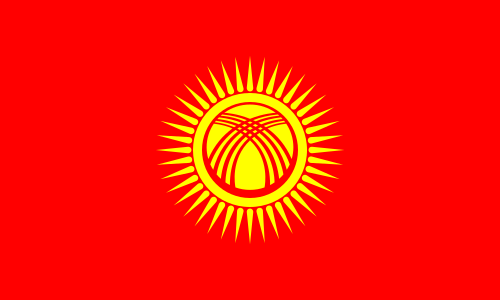
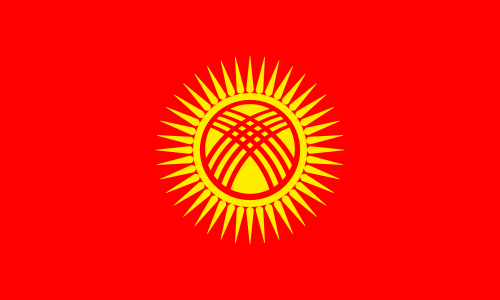
current up to luxembourg

Changed region(s): [[0.3, 0.18, 0.69, 0.81]]

diff --git a/currentInfo.js b/currentInfo.js
@@ -1186,7 +1186,7 @@ const currentInfo = [
     {
         country: {"name":"Kyrgyzstan","url":"https://en.wikipedia.org/wiki/Kyrgyzstan"}, 
         leader: {"title":"President","pos":"president","name":"Sadyr Japarov","url":"https://en.wikipedia.org/wiki/Sadyr_Japarov","imgUrl":"https://upload.wikimedia.org/wikipedia/commons/thumb/e/e4/Official_Photo_of_the_President_of_the_Kyrgyz_Republic_H.E._Mr._Sadyr_Zhaparov.jpg/500px-Official_Photo_of_the_President_of_the_Kyrgyz_Republic_H.E._Mr._Sadyr_Zhaparov.jpg"}, 
-        flag: {"url":"https://upload.wikimedia.org/wikipedia/commons/thumb/3/31/Flag_of_Kyrgyzstan_%282023%29.svg/500px-Flag_of_Kyrgyzstan_%282023%29.svg.png"}, 
+        flag: {"url":"https://upload.wikimedia.org/wikipedia/commons/thumb/c/c7/Flag_of_Kyrgyzstan.svg/500px-Flag_of_Kyrgyzstan.svg.png"}, 
         symbol: {"url":"https://upload.wikimedia.org/wikipedia/commons/thumb/f/f1/Emblem_of_Kyrgyzstan.svg/500px-Emblem_of_Kyrgyzstan.svg.png"}, 
         map: {"url":"https://upload.wikimedia.org/wikipedia/commons/thumb/7/7c/Kyrgyzstan_%28orthographic_projection%29.svg/500px-Kyrgyzstan_%28orthographic_projection%29.svg.png"}, 
         capital: [{"name":"Bishkek","type":"capital"}], 
@@ -1224,7 +1224,7 @@ const currentInfo = [
     }, 
     {
         country: {"name":"Lebanon","url":"https://en.wikipedia.org/wiki/Lebanon"}, 
-        leader: {"title":"Prime Minister","pos":"prime minister","name":"Najib Mikati","url":"https://en.wikipedia.org/wiki/Najib_Mikati","imgUrl":"https://upload.wikimedia.org/wikipedia/commons/thumb/6/6e/Najib_Mikati_portrait.jpg/500px-Najib_Mikati_portrait.jpg"}, 
+        leader: {"title":"Prime Minister","pos":"prime minister","name":"Najib Mikati","url":"https://en.wikipedia.org/wiki/Najib_Mikati","imgUrl":"https://upload.wikimedia.org/wikipedia/commons/thumb/0/0a/Najib_Mikati%2C_Lebanon_Jan_2024_%28cropped%29.jpg/500px-Najib_Mikati%2C_Lebanon_Jan_2024_%28cropped%29.jpg"}, 
         flag: {"url":"https://upload.wikimedia.org/wikipedia/commons/thumb/5/59/Flag_of_Lebanon.svg/500px-Flag_of_Lebanon.svg.png"}, 
         symbol: {"url":"https://upload.wikimedia.org/wikipedia/commons/thumb/9/98/Coat_of_arms_of_Lebanon.svg/500px-Coat_of_arms_of_Lebanon.svg.png"}, 
         map: {"url":"https://upload.wikimedia.org/wikipedia/commons/thumb/9/96/Lebanon_%28orthographic_projection%29.svg/500px-Lebanon_%28orthographic_projection%29.svg.png"}, 
@@ -1250,7 +1250,7 @@ const currentInfo = [
     }, 
     {
         country: {"name":"Liberia","url":"https://en.wikipedia.org/wiki/Liberia"}, 
-        leader: {"title":"President","pos":"president","name":"George Weah","url":"https://en.wikipedia.org/wiki/George_Weah","imgUrl":"https://upload.wikimedia.org/wikipedia/commons/thumb/3/39/George_Weah_in_2019_%28cropped%29.jpg/500px-George_Weah_in_2019_%28cropped%29.jpg"}, 
+        leader: {"title":"President","pos":"president","name":"Joseph Boakai","url":"https://en.wikipedia.org/wiki/Joseph_Boakai","imgUrl":"https://upload.wikimedia.org/wikipedia/commons/thumb/4/45/Joseph_Boakai_%28cropped%29.png/500px-Joseph_Boakai_%28cropped%29.png"}, 
         flag: {"url":"https://upload.wikimedia.org/wikipedia/commons/thumb/b/b8/Flag_of_Liberia.svg/500px-Flag_of_Liberia.svg.png"}, 
         symbol: {"url":"https://upload.wikimedia.org/wikipedia/commons/thumb/6/64/Coat_of_arms_of_Liberia.svg/500px-Coat_of_arms_of_Liberia.svg.png"}, 
         map: {"url":"https://upload.wikimedia.org/wikipedia/commons/thumb/9/91/Liberia_%28orthographic_projection%29.svg/500px-Liberia_%28orthographic_projection%29.svg.png"}, 
@@ -1289,7 +1289,7 @@ const currentInfo = [
     }, 
     {
         country: {"name":"Lithuania","url":"https://en.wikipedia.org/wiki/Lithuania"}, 
-        leader: {"title":"Prime Minister","pos":"prime minister","name":"Ingrida Šimonytė","url":"https://en.wikipedia.org/wiki/Ingrida_%C5%A0imonyt%C4%97","imgUrl":"https://upload.wikimedia.org/wikipedia/commons/thumb/a/a5/Fumio_Kishida_and_Ingrida_%C5%A0imonyt%C4%97_at_the_sidelines_of_the_2023_NATO_Summit_%28cropped%29.jpg/500px-Fumio_Kishida_and_Ingrida_%C5%A0imonyt%C4%97_at_the_sidelines_of_the_2023_NATO_Summit_%28cropped%29.jpg"}, 
+        leader: {"title":"Prime Minister","pos":"prime minister","name":"Ingrida Šimonytė","url":"https://en.wikipedia.org/wiki/Ingrida_%C5%A0imonyt%C4%97","imgUrl":"https://upload.wikimedia.org/wikipedia/commons/thumb/f/fb/Ingrida_Simonyte_2019_crop_2.jpg/500px-Ingrida_Simonyte_2019_crop_2.jpg"}, 
         flag: {"url":"https://upload.wikimedia.org/wikipedia/commons/thumb/1/11/Flag_of_Lithuania.svg/500px-Flag_of_Lithuania.svg.png"}, 
         symbol: {"url":"https://upload.wikimedia.org/wikipedia/commons/thumb/d/dd/Coat_of_arms_of_Lithuania.svg/500px-Coat_of_arms_of_Lithuania.svg.png"}, 
         map: {"url":"https://upload.wikimedia.org/wikipedia/commons/thumb/e/ec/EU-Lithuania.svg/500px-EU-Lithuania.svg.png"}, 
@@ -1302,9 +1302,9 @@ const currentInfo = [
     }, 
     {
         country: {"name":"Luxembourg","url":"https://en.wikipedia.org/wiki/Luxembourg"}, 
-        leader: {"title":"Prime Minister","pos":"prime minister","name":"Luc Frieden","url":"https://en.wikipedia.org/wiki/Luc_Frieden","imgUrl":"https://upload.wikimedia.org/wikipedia/commons/thumb/2/2a/Luc_Frieden_EUCO_12_2023_%28cropped%29.jpg/500px-Luc_Frieden_EUCO_12_2023_%28cropped%29.jpg"}, 
+        leader: {"title":"Prime Minister","pos":"prime minister","name":"Luc Frieden","url":"https://en.wikipedia.org/wiki/Luc_Frieden","imgUrl":"https://upload.wikimedia.org/wikipedia/commons/thumb/c/c1/Frieden_EUCO_0424_%28cropped%29.jpg/500px-Frieden_EUCO_0424_%28cropped%29.jpg"}, 
         flag: {"url":"https://upload.wikimedia.org/wikipedia/commons/thumb/d/da/Flag_of_Luxembourg.svg/500px-Flag_of_Luxembourg.svg.png"}, 
-        symbol: {"url":"https://upload.wikimedia.org/wikipedia/commons/thumb/5/54/Greater-Coat-of-Arms-of-Luxembourg.svg/500px-Greater-Coat-of-Arms-of-Luxembourg.svg.png"}, 
+        symbol: {"url":"https://upload.wikimedia.org/wikipedia/commons/thumb/6/6b/Greater_coat_of_arms_of_the_grand-duchy_of_Luxembourg.svg/500px-Greater_coat_of_arms_of_the_grand-duchy_of_Luxembourg.svg.png"}, 
         map: {"url":"https://upload.wikimedia.org/wikipedia/commons/thumb/c/c3/EU-Luxembourg.svg/500px-EU-Luxembourg.svg.png"}, 
         capital: [{"name":"Luxembourg","type":"capital"}], 
         language: {"list":["Luxembourgish","French","German"]}, 

diff --git a/newInfo.js b/newInfo.js
@@ -1172,7 +1172,7 @@ const newInfo = [
     }, 
     {
         country: {"name":"Kuwait","url":"https://en.wikipedia.org/wiki/Kuwait"}, 
-        leader: {"title":"Emir","pos":"emir","name":"Mishal Al-Ahmad Al-Jaber Al-Sabah","url":"https://en.wikipedia.org/wiki/Mishal_Al-Ahmad_Al-Jaber_Al-Sabah","imgUrl":"500load.wikimedia.org/wikipedia/commons/7/73/Mishal_Al-Ahmad_Al-Jaber_Al-Sabah_GCC.jpg"}, 
+        leader: {"title":"Emir","pos":"emir","name":"Mishal Al-Ahmad Al-Jaber Al-Sabah","url":"https://en.wikipedia.org/wiki/Mishal_Al-Ahmad_Al-Jaber_Al-Sabah","imgUrl":"https://upload.wikimedia.org/wikipedia/commons/thumb/f/f5/Mishal_Al-Ahmad_Al-Jaber_Al-Sabah_December_2023_%28cropped%29.jpg/500px-Mishal_Al-Ahmad_Al-Jaber_Al-Sabah_December_2023_%28cropped%29.jpg"}, 
         flag: {"url":"https://upload.wikimedia.org/wikipedia/commons/thumb/a/aa/Flag_of_Kuwait.svg/500px-Flag_of_Kuwait.svg.png"}, 
         symbol: {"url":"https://upload.wikimedia.org/wikipedia/commons/thumb/1/1c/Emblem_of_Kuwait.svg/500px-Emblem_of_Kuwait.svg.png"}, 
         map: {"url":"https://upload.wikimedia.org/wikipedia/commons/thumb/4/41/KWT_orthographic.svg/500px-KWT_orthographic.svg.png"}, 
@@ -1211,7 +1211,7 @@ const newInfo = [
     }, 
     {
         country: {"name":"Latvia","url":"https://en.wikipedia.org/wiki/Latvia"}, 
-        leader: {"title":"Prime Minister","pos":"prime minister","name":"Evika Siliņa","url":"https://en.wikipedia.org/wiki/Evika_Sili%C5%86a","imgUrl":"https://upload.wikimedia.org/wikipedia/commons/thumb/7/70/Prime_Minister_Orpo_and_Prime_Minister_of_Latvia_Evika_Sili%C5%86a_met_in_Helsinki_24._November_2023_%2853353047759%29.jpg/500px-Prime_Minister_Orpo_and_Prime_Minister_of_Latvia_Evika_Sili%C5%86a_met_in_Helsinki_24._November_2023_%2853353047759%29.jpg"}, 
+        leader: {"title":"Prime Minister","pos":"prime minister","name":"Evika Siliņa","url":"https://en.wikipedia.org/wiki/Evika_Sili%C5%86a","imgUrl":"https://upload.wikimedia.org/wikipedia/commons/thumb/a/a8/Jauniev%C4%93l%C4%93t%C4%81s_Ministru_prezidentes_Evikas_Sili%C5%86as_preses_konference_%28cropped%29.jpg/500px-Jauniev%C4%93l%C4%93t%C4%81s_Ministru_prezidentes_Evikas_Sili%C5%86as_preses_konference_%28cropped%29.jpg"}, 
         flag: {"url":"https://upload.wikimedia.org/wikipedia/commons/thumb/8/84/Flag_of_Latvia.svg/500px-Flag_of_Latvia.svg.png"}, 
         symbol: {"url":"https://upload.wikimedia.org/wikipedia/commons/thumb/4/45/Coat_of_arms_of_Latvia.svg/500px-Coat_of_arms_of_Latvia.svg.png"}, 
         map: {"url":"https://upload.wikimedia.org/wikipedia/commons/thumb/3/32/EU-Latvia.svg/500px-EU-Latvia.svg.png"}, 
@@ -1250,7 +1250,7 @@ const newInfo = [
     }, 
     {
         country: {"name":"Liberia","url":"https://en.wikipedia.org/wiki/Liberia"}, 
-        leader: {"title":"President","pos":"president","name":"Joseph Boakai","url":"https://en.wikipedia.org/wiki/Joseph_Boakai","imgUrl":"https://up500px-Joseph_Boakai_%28cropped%29.png"}, 
+        leader: {"title":"President","pos":"president","name":"Joseph Boakai","url":"https://en.wikipedia.org/wiki/Joseph_Boakai","imgUrl":"https://upload.wikimedia.org/wikipedia/commons/thumb/4/45/Joseph_Boakai_%28cropped%29.png/500px-Joseph_Boakai_%28cropped%29.png"}, 
         flag: {"url":"https://upload.wikimedia.org/wikipedia/commons/thumb/b/b8/Flag_of_Liberia.svg/500px-Flag_of_Liberia.svg.png"}, 
         symbol: {"url":"https://upload.wikimedia.org/wikipedia/commons/thumb/6/64/Coat_of_arms_of_Liberia.svg/500px-Coat_of_arms_of_Liberia.svg.png"}, 
         map: {"url":"https://upload.wikimedia.org/wikipedia/commons/thumb/9/91/Liberia_%28orthographic_projection%29.svg/500px-Liberia_%28orthographic_projection%29.svg.png"}, 
@@ -1302,7 +1302,7 @@ const newInfo = [
     }, 
     {
         country: {"name":"Luxembourg","url":"https://en.wikipedia.org/wiki/Luxembourg"}, 
-        leader: {"title":"Prime Minister","pos":"prime minister","name":"Luc Frieden","url":"https://en.wikipedia.org/wiki/Luc_Frieden","imgUrl":"https://upload.wikimedia.org/wikipedia/commons/thumb/d/d2/Frieden_von_der_Leyen_2023.jpg/500px-Frieden_von_der_Leyen_2023.jpg"}, 
+        leader: {"title":"Prime Minister","pos":"prime minister","name":"Luc Frieden","url":"https://en.wikipedia.org/wiki/Luc_Frieden","imgUrl":"https://upload.wikimedia.org/wikipedia/commons/thumb/c/c1/Frieden_EUCO_0424_%28cropped%29.jpg/500px-Frieden_EUCO_0424_%28cropped%29.jpg"}, 
         flag: {"url":"https://upload.wikimedia.org/wikipedia/commons/thumb/d/da/Flag_of_Luxembourg.svg/500px-Flag_of_Luxembourg.svg.png"}, 
         symbol: {"url":"https://upload.wikimedia.org/wikipedia/commons/thumb/6/6b/Greater_coat_of_arms_of_the_grand-duchy_of_Luxembourg.svg/500px-Greater_coat_of_arms_of_the_grand-duchy_of_Luxembourg.svg.png"}, 
         map: {"url":"https://upload.wikimedia.org/wikipedia/commons/thumb/c/c3/EU-Luxembourg.svg/500px-EU-Luxembourg.svg.png"}, 

diff --git a/scraper.js b/scraper.js
@@ -3403,14 +3403,11 @@ async function getData(){
                         case 88:    // Kenya
                             leaderImg(4, "jpg");
                             break;
-                        case 93:    // Latvia
-                            leaderImg(4, "jpg");
-                            break;
                         case 95:    // Lesotho
                             leaderImg(6, "jpg");
                             break;
-                        case 100:   // Luxembourg
-                            leaderImg(4, "jpg");
+                        case 96:    // Liberia
+                            leaderImg(3, "png");
                             break;
                         case 108:   // Mauritania
                             leaderImg(4, "jpg");

diff --git a/test.js b/test.js
@@ -1,13 +1,13 @@
 async function getData(){
 
     try {
-        const response = await require('axios').get("https://en.wikipedia.org/wiki/William_Ruto");
+        const response = await require('axios').get("https://en.wikipedia.org/wiki/Luc_Frieden");
         const data = require('cheerio').load(response.data);
         const size= "500px";
         const countryNum = 30;
 
         // flag_symbol_map(4, "svg", 5, "svg", 6, "svg");
-        leaderImg(4, "jpg")
+        leaderImg(3, "jpg")
 
 
         // function pos_00(){
